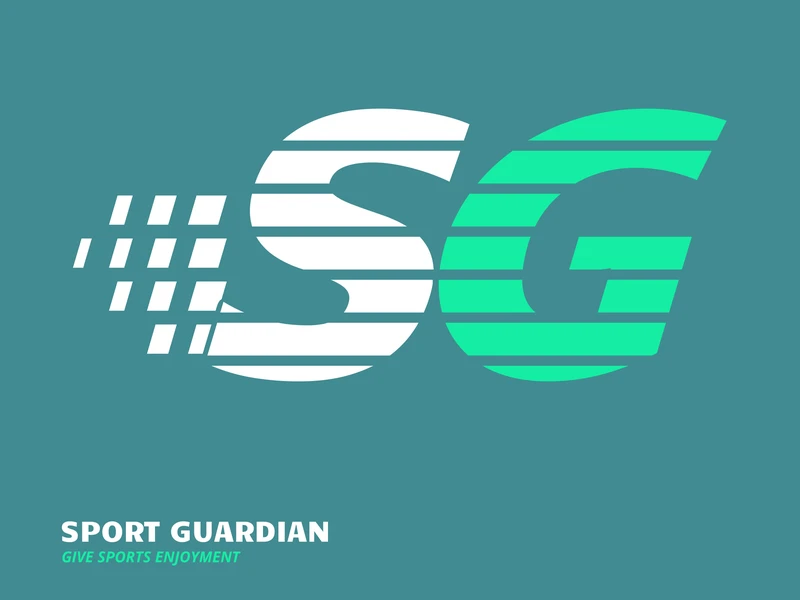
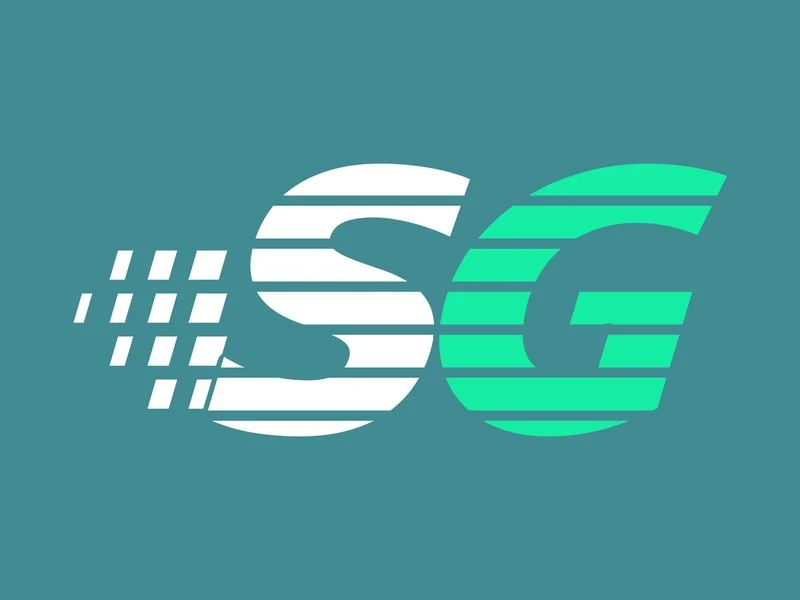
Landing: Sport Guardian thumbnail without the wordmark line, the SG mark centred

Changed region(s): [[0.0938, 0.18, 0.9062, 0.75], [0.0625, 0.87, 0.4375, 0.96]]

diff --git a/site.md b/site.md
@@ -50,7 +50,7 @@ Built from [`inspiration.md`](inspiration.md) (decisions D1–D9) and [`cv.md`](
 | 1 | DRON: drone services, end to end | A drone-as-a-service platform taken from research to a 134-page clickable prototype, a token-based design system, and a WCAG and HIG check on every decision — built with Claude Code. | Research, UX, UI, design system | 2026 | Mobile web | DRON order screen + drone render (`assets/work/dron/`) |
 | 2 | Warmy: email deliverability | Warms up mailboxes and domains automatically so campaigns land in the inbox, not in spam. | UI/UX Designer | 2021 – present | Web SaaS | Thumbnail (her choice, 2026-10-20): her own Figma frame "video-player" (231:72628): "The Insights Your ESP Never Shows You", the roaring tiger and the Outlook, Gmail and @ tiles, fitted to the 4:3 card at its full width (the 70 px missing at the top and the bottom continue its edges softly; trimming the sides cut the logo margin, her note) by `tools/warmy/render_thumb.py` → `assets/work/warmy/warmy-thumb.webp` (1600 × 1200) and `-800`. **Opens its own page** [`Warmy.html`](Warmy.html), content in [`warmy.md`](warmy.md) (2026-10-20). |
 | 3 | AnyBiz: AI sales outreach | A B2B platform that finds prospects and reaches them by email, LinkedIn and phone, with AI sales agents, drip campaigns and CRM integration. | Product Designer | 2021 – present | Web SaaS | The AnyBiz logo with the line *AI sales outreach* (violet `#A78BFA`, uppercase) on the product's night ground `#020617` with its violet and sky glows; desktop and mobile (her call 2026-10-24; replaced the UI fragments). **Opens its own page** [`AnyBiz.html`](AnyBiz.html), content in [`anybiz.md`](anybiz.md) (2026-10-22). |
-| 4 | Sport Guardian: crowdfunding for sports clubs (Norwegian: Idretsfader; English name since 2026-10-10) | A fundraising page any sports club can open in minutes, so private people and companies can cover what keeps children out of sport. | UX, UI *(estimate, to confirm)* | 2024 (her answer, 2026-10-14) | Web | SG mark, "Speed" variant chosen by her 2026-10-13: a slanted white S and green G in the brand typeface Candal, sliced into horizontal strips, a short checkered trail on the left, SPORT GUARDIAN · GIVE SPORTS ENJOYMENT bottom left, on the brand teal `#418B91` (green `#15EDA3`, from her Figma file Scale-Development-AS, node 3007:43846). References: inspiration 2.8. Rendered by `tools/sport-guardian/render-variants.py` at 1600 × 1200 plus an 800 × 600 srcset (`assets/work/sport-guardian/`). **Opens its own page** [`SportGuardian.html`](SportGuardian.html), content in [`sportguardian.md`](sportguardian.md) (2026-10-13). |
+| 4 | Sport Guardian: crowdfunding for sports clubs (Norwegian: Idretsfader; English name since 2026-10-10) | A fundraising page any sports club can open in minutes, so private people and companies can cover what keeps children out of sport. | UX, UI *(estimate, to confirm)* | 2024 (her answer, 2026-10-14) | Web | SG mark, "Speed" variant chosen by her 2026-10-13: a slanted white S and green G *(revised 2026-10-24, her call, desktop and mobile: the SPORT GUARDIAN / GIVE SPORTS ENJOYMENT line is removed and the mark is centred on the teal; cut from the same file, `sport-guardian-mark.webp` + `-800.webp`)* in the brand typeface Candal, sliced into horizontal strips, a short checkered trail on the left, SPORT GUARDIAN · GIVE SPORTS ENJOYMENT bottom left, on the brand teal `#418B91` (green `#15EDA3`, from her Figma file Scale-Development-AS, node 3007:43846). References: inspiration 2.8. Rendered by `tools/sport-guardian/render-variants.py` at 1600 × 1200 plus an 800 × 600 srcset (`assets/work/sport-guardian/`). **Opens its own page** [`SportGuardian.html`](SportGuardian.html), content in [`sportguardian.md`](sportguardian.md) (2026-10-13). |
 | 5 | School: remote learning for pupils and teachers | An iOS app concept that turns distance learning into challenges, lessons and homework in one feed, from research and a customer journey map to the UI. | Research, UX, UI | 2020 *(estimate from the screens, to confirm)* | iOS | Thumbnail from her Figma file MY-PROJECTS, frame 854:50114 ("IOS App School — remote learning", welcome screen on a phone), exported at 2x: `assets/work/school/thumb.webp` + `thumb-800.webp` (2026-09-28). **Opens its own page** [`school.html`](school.html), content in [`school.md`](school.md) (2026-10-10). |
 | 6 | Styupan Translation: brand mark | Logo for Stiupan Translations ENK, an Oslo translation and copywriting company, followed by UI/UX and book work over more than a year. | Logo, UI/UX | 2023 | Brand | The logo on yellow with scattered letters, exported from her Figma file MY PROJECTS (node 853:50072, 677 × 508) at 1600 × 1200 plus an 800 × 600 srcset (`assets/work/styupan/`, 2026-09-28). **Opens its own page** [`styupan.html`](styupan.html), content in [`styupan.md`](styupan.md) (2026-09-29). |
 | 7 | Book: a family history in print | Layout and design of a 432-page family history book with more than 300 images, printed by LOS DIGITAL AS in 2024. | Book design, layout | 2023 – 2024 | Print | One hardcover lying face up, a three.js render from her cover file (since 2026-09-28, replaced the CSS stack of three copies; details in `book.md`). **Opens its own page** [`book.html`](book.html), content in [`book.md`](book.md) (2026-09-26). |
